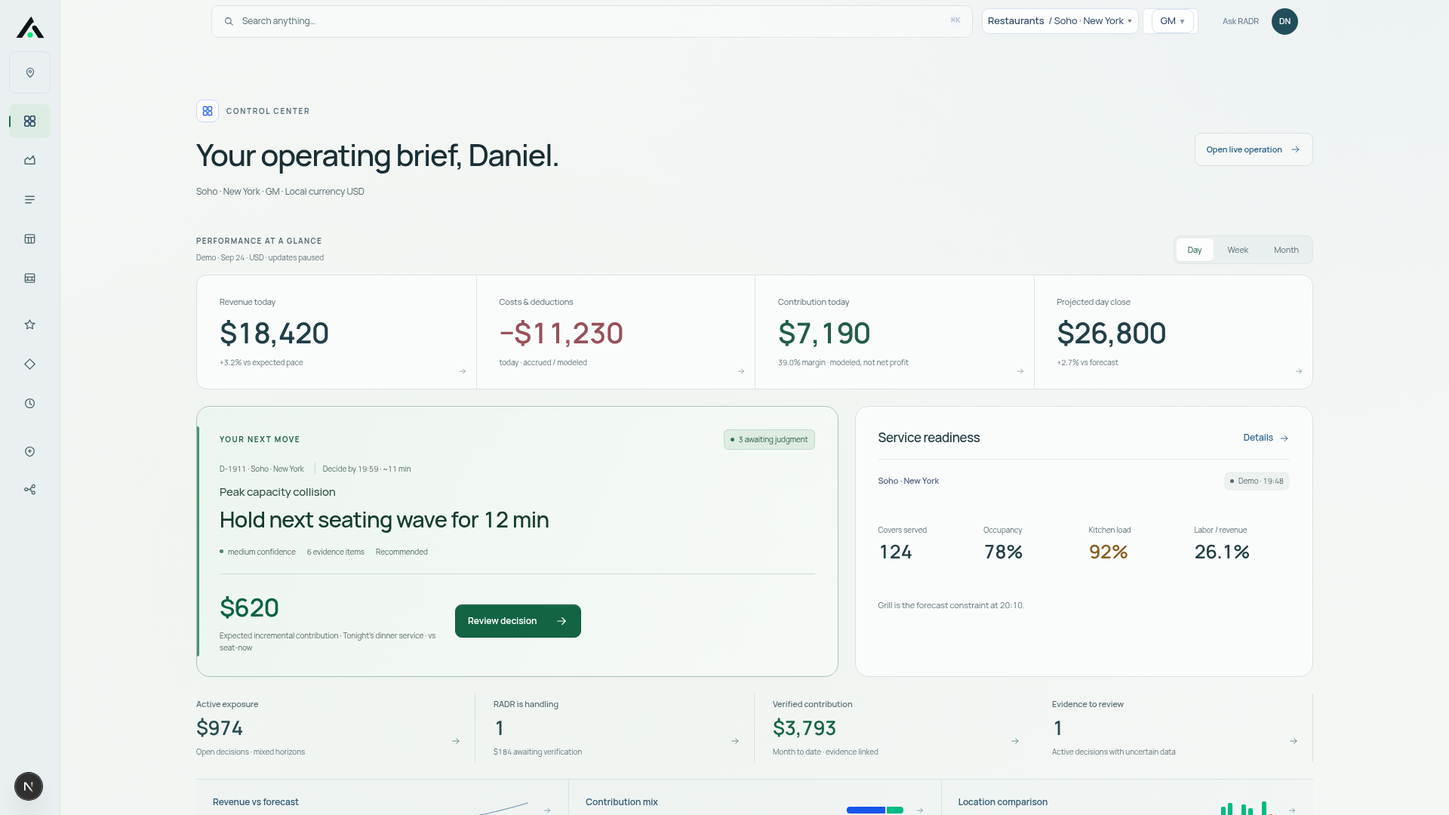
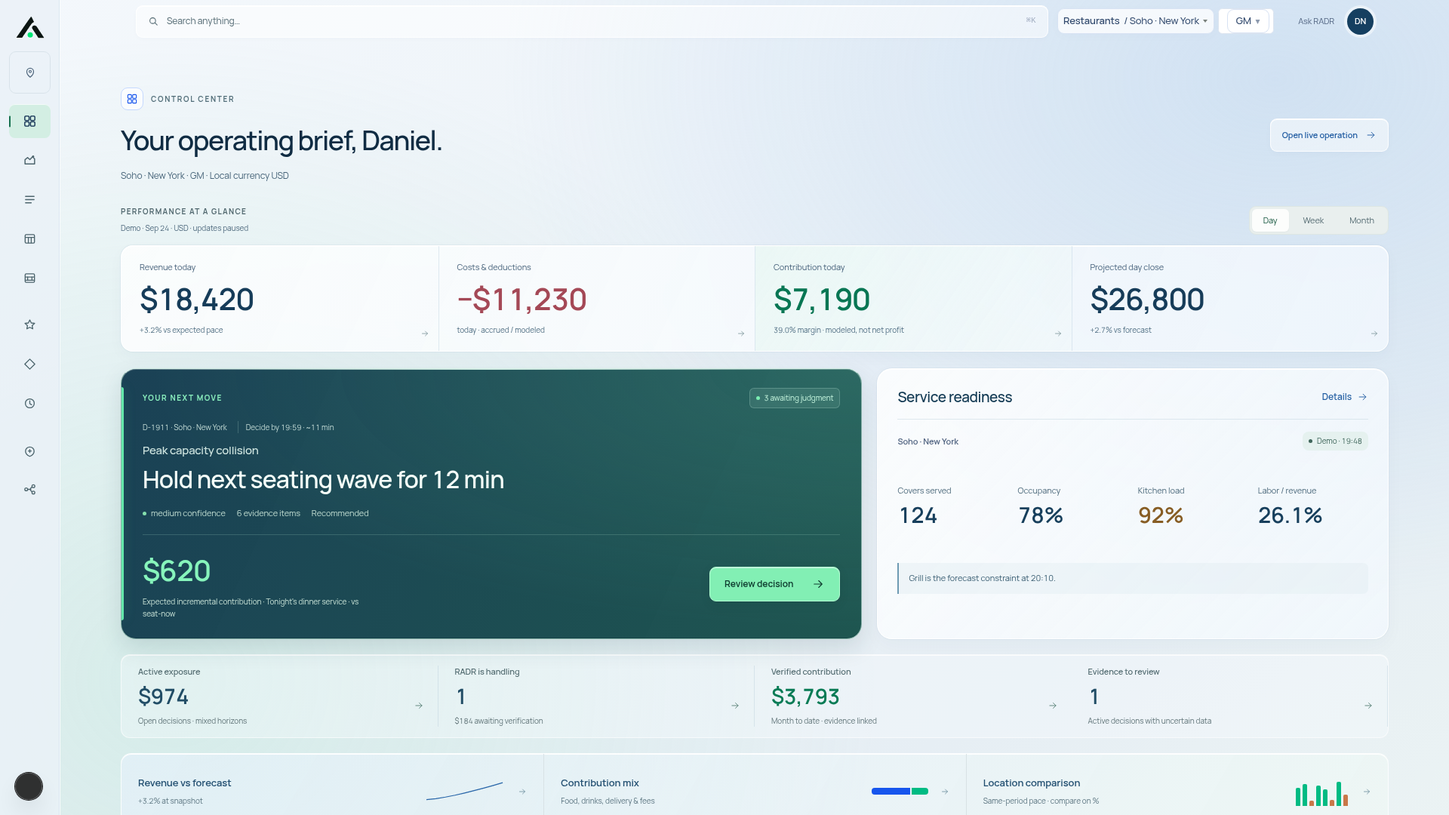
Strengthen Control Center glass, light and Decision emphasis

diff --git a/app/radr-material-system.css b/app/radr-material-system.css
@@ -169,3 +169,103 @@
 .rp-root.rp-shell-v2.rp-premium[data-theme=daylight][data-page=control-center] .ep-graph>svg[viewBox="0 0 270 75"] path:last-child {stroke:var(--material-blue);stroke-width:2;}
 .rp-root.rp-shell-v2.rp-premium[data-theme=daylight][data-page=control-center] .ep-graph>svg[viewBox="0 0 270 75"] path:first-child {stroke:#9baeb7;stroke-width:1;}
 @media(min-width:1900px) {.rp-root.rp-shell-v2.rp-premium[data-theme=daylight][data-page=control-center] .rp-goh {max-width:1480px!important;width:calc(100% - 88px)!important;margin-inline:auto!important;}}
+
+/* Revision 2: visible material, stronger focus and a fuller operating surface. */
+.rp-root.rp-shell-v2.rp-premium[data-theme=daylight][data-page=control-center] {
+ --material-canvas:#eaf1f5;--material-working:#f7fbfe;--material-working-alpha:rgba(249,252,255,.74);
+ --material-ink:#102b43;--material-secondary:#456079;--material-quiet:#506b7f;
+ --material-green:#087753;--material-blue:#225da2;--material-border:#c7d8e4;
+ --app-nav:#eaf1f7;--glass-fill:rgba(249,252,255,.74);--glass-edge:#ffffffd9;
+ background-color:#eaf1f5!important;
+ background-image:radial-gradient(ellipse 1250px 850px at 88% 7%,#a8c9ec63,transparent 82%),radial-gradient(ellipse 1100px 1000px at 12% 60%,#8fd8bb3d,transparent 85%),linear-gradient(145deg,#f4f8fc,#e6eef4 65%,#eef6f3)!important;
+}
+.rp-root.rp-shell-v2.rp-premium[data-theme=daylight][data-page=control-center] .rp-content-v2 {padding:26px 52px 40px!important;}
+.rp-root.rp-shell-v2.rp-premium[data-theme=daylight][data-page=control-center] .cc-executive {max-width:1360px;gap:18px;}
+.rp-root.rp-shell-v2.rp-premium[data-theme=daylight][data-page=control-center] .cc-executive>.rs-heading {padding-bottom:12px;}
+.rp-root.rp-shell-v2.rp-premium[data-theme=daylight][data-page=control-center] .cc-executive .rs-heading h1 {font-size:36px;letter-spacing:-1.45px;color:#102c43;margin:12px 0 10px;}
+.rp-root.rp-shell-v2.rp-premium[data-theme=daylight][data-page=control-center] .cc-executive .rs-heading .rs-description {color:#48657a;}
+.rp-root.rp-shell-v2.rp-premium[data-theme=daylight][data-page=control-center] .rs-navigation {background:#eaf1f7db!important;border-right:1px solid #ffffffb3;box-shadow:inset -1px 0 0 #c4d6e66b;}
+.rp-root.rp-shell-v2.rp-premium[data-theme=daylight][data-page=control-center] .rs-nav-items>a[data-active=true] {background:#d3eee3;color:#075c42;box-shadow:inset 0 1px 0 #ffffffb3;}
+.rp-root.rp-shell-v2.rp-premium[data-theme=daylight][data-page=control-center] .rs-brand {filter:drop-shadow(0 1px 0 #fff);}
+.rp-root.rp-shell-v2.rp-premium[data-theme=daylight][data-page=control-center] .rp-goh-search {background:#ffffff80!important;border-color:#ffffffd9!important;box-shadow:inset 0 1px 0 #fff,0 2px 6px #15395c05!important;}
+.rp-root.rp-shell-v2.rp-premium[data-theme=daylight][data-page=control-center] .rp-goh-avatar {background:#153f60!important;box-shadow:0 0 0 4px #ffffff80!important;}
+.rp-root.rp-shell-v2.rp-premium[data-theme=daylight][data-page=control-center] .cc-executive .rs-heading .rs-text-link {background:#ffffff7d;border-color:#ffffffdc;box-shadow:inset 0 1px 0 #fff,0 3px 10px #15395c06;}
+.rp-root.rp-shell-v2.rp-premium[data-theme=daylight][data-page=control-center] .ep-metrics {border-color:#ffffffe8;border-radius:16px;background:linear-gradient(115deg,#ffffffc9,#f5faffb8);box-shadow:inset 0 1px 0 #fff,0 7px 20px #21496b08,0 0 0 1px #a9c2d329;}
+.rp-root.rp-shell-v2.rp-premium[data-theme=daylight][data-page=control-center] .ep-metrics>button {padding:20px 24px;min-height:123px;}
+.rp-root.rp-shell-v2.rp-premium[data-theme=daylight][data-page=control-center] .ep-metrics>button+button {border-color:#bfd2df73;}
+.rp-root.rp-shell-v2.rp-premium[data-theme=daylight][data-page=control-center] .ep-metrics>button>strong {font-size:36px;font-weight:550;color:#163c59;letter-spacing:-1.3px;}
+.rp-root.rp-shell-v2.rp-premium[data-theme=daylight][data-page=control-center] .ep-metrics>.ep-contribution {background:linear-gradient(125deg,#e0f5ed7d,#eff8f84d);}
+.rp-root.rp-shell-v2.rp-premium[data-theme=daylight][data-page=control-center] .ep-metrics>.ep-contribution>strong {color:#087653;}
+.rp-root.rp-shell-v2.rp-premium[data-theme=daylight][data-page=control-center] .ep-metrics>.ep-cost>strong {color:#a44856;}
+.rp-root.rp-shell-v2.rp-premium[data-theme=daylight][data-page=control-center] .ep-metrics>button>small {color:#506e83;}
+.rp-root.rp-shell-v2.rp-premium[data-theme=daylight][data-page=control-center] .cc-priority-grid {grid-template-columns:minmax(0,1.45fr) minmax(0,1fr);gap:20px;}
+.rp-root.rp-shell-v2.rp-premium[data-theme=daylight][data-page=control-center] .cc-executive .cc-priority {
+ background:#123f48;
+ background:radial-gradient(ellipse at 100% 0,#5dbaa336,transparent 68%),linear-gradient(115deg,#143b50f7,#164f49f5);
+ border:1px solid #a3cdbec9;border-top-color:#d3eee4;border-radius:20px;
+ box-shadow:inset 0 1px 0 #ffffff40,inset 0 -1px 0 #0c2e3859,0 12px 30px #143e4921;
+ padding:25px 28px;color:#effbf5;
+}
+.rp-root.rp-shell-v2.rp-premium[data-theme=daylight][data-page=control-center] .cc-priority:before {top:24px;bottom:24px;width:3px;background:#64e7aa;box-shadow:0 0 16px #50dba040;}
+.rp-root.rp-shell-v2.rp-premium[data-theme=daylight][data-page=control-center] .cc-priority:after {content:"";pointer-events:none;position:absolute;left:0;right:0;top:0;height:1px;background:linear-gradient(90deg,transparent,#e8fff3d9,transparent);}
+.rp-root.rp-shell-v2.rp-premium[data-theme=daylight][data-page=control-center] .cc-priority .cc-section-label {color:#8aefbe;letter-spacing:1.5px;}
+.rp-root.rp-shell-v2.rp-premium[data-theme=daylight][data-page=control-center] .cc-priority .rs-status-pill {background:#d5ffed18;border-color:#d1fce938;color:#c5f5de;}
+.rp-root.rp-shell-v2.rp-premium[data-theme=daylight][data-page=control-center] .cc-priority .rs-status-pill>i {background:#7befb2;}
+.rp-root.rp-shell-v2.rp-premium[data-theme=daylight][data-page=control-center] .cc-executive .cc-priority-meta {color:#c0d9d4;}
+.rp-root.rp-shell-v2.rp-premium[data-theme=daylight][data-page=control-center] .cc-executive .cc-priority-meta>span+span {border-color:#9bc5ba47;}
+.rp-root.rp-shell-v2.rp-premium[data-theme=daylight][data-page=control-center] .cc-executive .cc-priority h2 {color:#d0e6e1;font-size:15px;}
+.rp-root.rp-shell-v2.rp-premium[data-theme=daylight][data-page=control-center] .cc-executive .cc-priority-recommendation {color:#f5fff9;font-size:28px;letter-spacing:-.8px;max-width:630px;}
+.rp-root.rp-shell-v2.rp-premium[data-theme=daylight][data-page=control-center] .cc-decision-assurance {color:#c2dfd3;font-size:11px;}
+.rp-root.rp-shell-v2.rp-premium[data-theme=daylight][data-page=control-center] .cc-decision-assurance i {background:#85dfae;}
+.rp-root.rp-shell-v2.rp-premium[data-theme=daylight][data-page=control-center] .cc-executive .cc-priority footer {border-color:#a3d5c638;margin-top:19px;padding-top:18px;justify-content:space-between;}
+.rp-root.rp-shell-v2.rp-premium[data-theme=daylight][data-page=control-center] .cc-compact-impact strong {color:#87f5bc;font-size:38px;letter-spacing:-1.1px;}
+.rp-root.rp-shell-v2.rp-premium[data-theme=daylight][data-page=control-center] .cc-compact-impact small {color:#c7e2d6;font-size:10px;}
+.rp-root.rp-shell-v2.rp-premium[data-theme=daylight][data-page=control-center] .cc-executive .cc-primary-action {background:#82efb4;border-color:#b3ffd2;color:#103e31;font-weight:650;padding:13px 19px;box-shadow:inset 0 1px 0 #e8fff8a8,0 4px 12px #032e2926;}
+.rp-root.rp-shell-v2.rp-premium[data-theme=daylight][data-page=control-center] .cc-executive .cc-primary-action:hover {background:#a6facb;box-shadow:inset 0 1px 0 #fff;}
+.rp-root.rp-shell-v2.rp-premium[data-theme=daylight][data-page=control-center] .cc-executive .cc-readiness {background:linear-gradient(135deg,#ffffffd1,#f4faffae);border:1px solid #ffffffe8;border-radius:20px;box-shadow:inset 0 1px 0 #fff,0 8px 24px #25486308,0 0 0 1px #a9c2d329;padding:25px 26px;}
+.rp-root.rp-shell-v2.rp-premium[data-theme=daylight][data-page=control-center] .cc-readiness>header {border-color:#bcd0dc73;}
+.rp-root.rp-shell-v2.rp-premium[data-theme=daylight][data-page=control-center] .cc-readiness>header h2 {font-size:19px;color:#153c55;}
+.rp-root.rp-shell-v2.rp-premium[data-theme=daylight][data-page=control-center] .cc-readiness-facts strong {color:#173f5c;font-size:29px;}
+.rp-root.rp-shell-v2.rp-premium[data-theme=daylight][data-page=control-center] .cc-readiness-facts span {font-size:11px;color:#4b687a;}
+.rp-root.rp-shell-v2.rp-premium[data-theme=daylight][data-page=control-center] .cc-readiness .rs-status-pill {background:#e5f1ef;color:#3f665b;}
+.rp-root.rp-shell-v2.rp-premium[data-theme=daylight][data-page=control-center] .cc-compact-readiness {background:#dfebf16b;border-left:2px solid #6e9bb3;padding:11px 13px;color:#395d72;border-radius:0 7px 7px 0;}
+.rp-root.rp-shell-v2.rp-premium[data-theme=daylight][data-page=control-center] .cc-executive .cc-money-strip {margin:20px 0;background:#f8fcff57;border:1px solid #ffffff9e;border-radius:12px;padding:14px 0;box-shadow:inset 0 1px 0 #ffffffc9;}
+.rp-root.rp-shell-v2.rp-premium[data-theme=daylight][data-page=control-center] .cc-executive .cc-money-strip>a {padding:0 22px;border-color:#bfd2dd7a;}
+.rp-root.rp-shell-v2.rp-premium[data-theme=daylight][data-page=control-center] .cc-executive .cc-money-strip>a:first-child {padding-left:22px;}
+.rp-root.rp-shell-v2.rp-premium[data-theme=daylight][data-page=control-center] .cc-executive .cc-money-strip>a>strong {font-size:28px;color:#214d66;}
+.rp-root.rp-shell-v2.rp-premium[data-theme=daylight][data-page=control-center] .cc-executive .cc-money-strip>a.cc-verified>strong {color:#087b55;}
+.rp-root.rp-shell-v2.rp-premium[data-theme=daylight][data-page=control-center] .ep-graphs {border:1px solid #ffffffc9;border-radius:14px;overflow:hidden;background:linear-gradient(120deg,#e7f1fc99,#eff9f5a3);box-shadow:inset 0 1px 0 #fff;}
+.rp-root.rp-shell-v2.rp-premium[data-theme=daylight][data-page=control-center] .ep-graphs .ep-graph {min-height:100px;padding:19px 22px;}
+.rp-root.rp-shell-v2.rp-premium[data-theme=daylight][data-page=control-center] .ep-graph strong {color:#214e70;font-size:13px;}
+.rp-root.rp-shell-v2.rp-premium[data-theme=daylight][data-page=control-center] .ep-graph>svg[viewBox="0 0 270 75"] {width:105px;height:50px;}
+.rp-root.rp-shell-v2.rp-premium[data-theme=daylight][data-page=control-center] .ep-graph>svg[viewBox="0 0 270 75"] path:last-child {stroke:#2866aa;stroke-width:3;}
+.rp-root.rp-shell-v2.rp-premium[data-theme=daylight][data-page=control-center] .cc-compact-areas {border-top:1px solid #bed0da66;padding-top:4px;}
+@supports(backdrop-filter:blur(8px)) {
+ .rp-root.rp-shell-v2.rp-premium[data-theme=daylight][data-page=control-center] .ep-metrics,.rp-root.rp-shell-v2.rp-premium[data-theme=daylight][data-page=control-center] .cc-executive .cc-readiness {backdrop-filter:blur(8px);-webkit-backdrop-filter:blur(8px);}
+}
+@media(min-width:1900px) {
+ .rp-root.rp-shell-v2.rp-premium[data-theme=daylight][data-page=control-center] .cc-executive {max-width:1680px;}
+ .rp-root.rp-shell-v2.rp-premium[data-theme=daylight][data-page=control-center] .rp-goh {max-width:1680px!important;}
+ .rp-root.rp-shell-v2.rp-premium[data-theme=daylight][data-page=control-center] .cc-executive .cc-priority-recommendation {font-size:32px;}
+ .rp-root.rp-shell-v2.rp-premium[data-theme=daylight][data-page=control-center] .ep-metrics>button>strong {font-size:40px;}
+}
+@media(max-width:1100px) {.rp-root.rp-shell-v2.rp-premium[data-theme=daylight][data-page=control-center] .cc-priority-grid {grid-template-columns:1fr;}.rp-root.rp-shell-v2.rp-premium[data-theme=daylight][data-page=control-center] .rp-content-v2 {padding-inline:28px!important;}}
+@media(max-width:700px) {
+ .rp-root.rp-shell-v2.rp-premium[data-theme=daylight][data-page=control-center] .rp-content-v2 {padding:22px 16px 32px!important;}
+ .rp-root.rp-shell-v2.rp-premium[data-theme=daylight][data-page=control-center] .cc-executive .rs-heading h1 {font-size:28px;}
+ .rp-root.rp-shell-v2.rp-premium[data-theme=daylight][data-page=control-center] .ep-metrics>button {padding:17px;min-height:118px;}
+ .rp-root.rp-shell-v2.rp-premium[data-theme=daylight][data-page=control-center] .ep-metrics>button>strong {font-size:29px;}
+ .rp-root.rp-shell-v2.rp-premium[data-theme=daylight][data-page=control-center] .cc-executive .cc-priority,.rp-root.rp-shell-v2.rp-premium[data-theme=daylight][data-page=control-center] .cc-executive .cc-readiness {padding:22px;}
+ .rp-root.rp-shell-v2.rp-premium[data-theme=daylight][data-page=control-center] .cc-executive .cc-priority-recommendation {font-size:25px;}
+ .rp-root.rp-shell-v2.rp-premium[data-theme=daylight][data-page=control-center] .cc-compact-impact strong {font-size:34px;}
+ .rp-root.rp-shell-v2.rp-premium[data-theme=daylight][data-page=control-center] .cc-executive .cc-money-strip>a {padding:12px;}
+ .rp-root.rp-shell-v2.rp-premium[data-theme=daylight][data-page=control-center] .cc-executive .cc-money-strip>a:first-child {padding-left:12px;}
+ .rp-root.rp-shell-v2.rp-premium[data-theme=daylight][data-page=control-center] .ep-graphs .ep-graph {min-height:85px;}
+}
+@media(prefers-reduced-transparency:reduce) {
+ .rp-root.rp-shell-v2.rp-premium[data-theme=daylight][data-page=control-center] .ep-metrics,.rp-root.rp-shell-v2.rp-premium[data-theme=daylight][data-page=control-center] .cc-executive .cc-readiness {background:#f7fbfe;backdrop-filter:none;-webkit-backdrop-filter:none;}
+ .rp-root.rp-shell-v2.rp-premium[data-theme=daylight][data-page=control-center] .cc-executive .cc-priority {background:#16434b;}
+}
+
+.rp-root.rp-shell-v2.rp-premium[data-theme=daylight][data-page=control-center] .cc-priority .cc-priority-empty .rs-text-link {color:#c3f4df;}
+@media(prefers-reduced-transparency:reduce) {.rp-root.rp-shell-v2.rp-premium[data-theme=daylight][data-page=control-center] {background-image:none!important;}}

diff --git a/tests/e2e/control-center-material.spec.ts b/tests/e2e/control-center-material.spec.ts
@@ -7,7 +7,7 @@ test("material pilot retains canonical Decision and passes contrast checks",asyn
 });
 
 test("4K composition centres and remains native vector UI",async({page})=>{
- await page.setViewportSize({width:3840,height:2160});await page.goto("/app?stay=1");const brief=await page.getByTestId("compact-control-center").boundingBox();expect(brief!.x+brief!.width/2).toBeCloseTo((3840+80)/2,0);expect(brief!.width).toBeLessThanOrEqual(1480);expect(await page.locator(".ep-graphs svg").count()).toBeGreaterThan(0);await expect(page.getByTestId("compact-control-center").locator("canvas")).toHaveCount(0);await expect(page.locator('.rs-brand img')).toHaveAttribute("src",/master-v4\.svg/);
+ await page.setViewportSize({width:3840,height:2160});await page.goto("/app?stay=1");const brief=await page.getByTestId("compact-control-center").boundingBox();expect(brief!.x+brief!.width/2).toBeCloseTo((3840+80)/2,0);expect(brief!.width).toBeLessThanOrEqual(1680);expect(await page.locator(".ep-graphs svg").count()).toBeGreaterThan(0);await expect(page.getByTestId("compact-control-center").locator("canvas")).toHaveCount(0);await expect(page.locator('.rs-brand img')).toHaveAttribute("src",/master-v4\.svg/);
 });
 
 test("material scope ends when leaving Control Center",async({page})=>{

diff --git a/docs/RADR_VISUAL_SYSTEM_AUDIT.md b/docs/RADR_VISUAL_SYSTEM_AUDIT.md
@@ -1,65 +1,55 @@
-# Control Center visual system audit
+# Control Center glass revision 2
 
-2 November 2026. Scope: Control Center and the shell that renders it. Status: frozen for user visual approval before propagation.
+2 November 2026. Scope: Control Center and its shell. Status: review candidate, awaiting visual approval before propagation.
 
-[Before / after comparison](visual-qa/control-center-comparison.png)
+The user rejected the first pilot as too empty and underwhelming. This revision responds with visible glass, stronger blue-green contrast, a fuller composition and a more decisive focal surface. It preserves the product and its underlying data.
 
-## Scope and authority
+[Rejected pilot / revised glass comparison](visual-qa/control-center-comparison.png)
 
-Applied the user-supplied **RADR APP — PREMIUM VISUAL SYSTEM PASS**. Read the approved `radr_control_center_dashboard.png` mockup as a light application reference, excluding the device bezel and exterior background. Product architecture, navigation routes, Decision logic, financial models, source records and product thesis remain unchanged.
+## What changed
 
-Every new material selector is scoped to the Control Center root. Other pages continue using the existing visual system; no Live, Decisions, Operations, BOH, Intelligence, Value, Memory, Health or Connections component was edited. The new design contract is [RADR_APP_DESIGN_SYSTEM.md](RADR_APP_DESIGN_SYSTEM.md).
-
-## Visual diff
-
-| Aspect | Before | Material pilot |
+| Aspect | Rejected pilot | Glass revision 2 |
 | --- | --- | --- |
-| Canvas | Flat ivory underneath conventional cards | Continuous ivory with very low-opacity, large blue/mint light fields; no visible blobs or animated wallpaper |
-| Operating context | Four separately rounded metric cards | One divided Working Glass surface using the same four metrics and drill-downs |
-| Primary Decision | Dark blue card with bright green value | Near-opaque light Decision Glass, green-influenced edge, stronger recommendation typography and restrained forest action |
-| Decision hierarchy | Record title led the composition | Recommendation is the strongest text; record title, actual confidence, evidence count and lifecycle stay secondary |
-| Proof summary | Four additional card-like blocks, including a blue verified block | Unboxed typography and separators on the canvas; green identifies verified contribution |
-| Analysis entry points | Three independent bordered cards | One quiet analytical strip with existing native SVG chart marks and original drill-downs |
-| Typography | Similar emphasis across cards | Editorial heading, instrumentation-style numbers, quiet labels and deliberate recommendation hierarchy |
-| Borders / depth | Conventional borders, inherited layered glass filters | Two defined surface materials, subtle borders/inset highlights; no backdrop-filter on overview surfaces |
-| Navigation | Pale rail with larger active field | Same architecture and behaviors, restrained mint field, narrow green marker and normalized outline strokes |
-| Top bar | More visible blue-tinted toolbar | Transparent bar, faint command surface and quieter profile accent |
-| Wide rendering | Existing main-shell width cap left content aligned to one side | Scoped width correction centres the workspace and top bar at 4K, capped at a readable 1480px |
-| Motion | Inherited mixed surface behavior | 180ms interaction tint and one 200ms/3px Decision arrival; reduced-motion removes both |
+| Canvas | Almost flat gray-ivory | Blue-white light with broad analytical-blue and mint illumination |
+| Working surfaces | Near-opaque, almost flat | Translucent blue-white glass, luminous upper borders, fine support edges and selective 8px blur |
+| Decision | Pale green and low contrast | Deep teal/forest focus glass, a fine mint edge, bright mint impact and a high-contrast action |
+| Composition | 1200px desktop reading width and excess surrounding space | 1360px desktop / 1680px wide-screen composition with tighter outer padding |
+| Financial context | Restrained numbers on an almost-white divided surface | Larger navy/green instrumentation on one visible glass surface |
+| Proof | Unboxed numbers that felt disconnected | One shallow translucent proof field, retaining four existing facts and internal separators |
+| Readiness | White supporting panel with little presence | Blue-white glass, clearer type, stronger numbers and an integrated constraint field |
+| Analytical entry points | Thin, flat strip | One lightly tinted glass strip with larger existing SVG marks |
+| Shell | Nearly invisible | Frosted pale-blue rail, white-facing command surface and a restrained profile ring |
 
-The primary Decision remains fully visible at 1512×982. Supporting analysis and the longer operating queue stay below or behind their existing drill-downs. No charts, product modules or integration capabilities were added. No large photographic or illustrative background is used.
+Only the operating-summary and readiness surfaces use backdrop blur. The Decision is near-opaque, and other surfaces use static tint/edge treatment. Blur support is optional. Reduced transparency removes atmospheric light and blur, and uses solid surfaces. Reduced motion still disables transitions and the brief entrance treatment. No continuous animation, new chart, dependency or client-side data request was introduced.
 
-## Data integrity
+## Scope and integrity
 
-D-1911 remains `dec_peak_berlin`, Peak capacity collision, Soho · New York, USD 620 expected incremental contribution for tonight versus seat-now. Its recommendation remains “Hold next seating wave for 12 min.” Confidence is the record's MEDIUM band, not the brief's illustrative 82%. Six evidence items and the Recommended lifecycle label derive directly from that record. No amount, forecast, status, source quality or verification state changed.
+All material selectors remain restricted to the Control Center root. No other product page was restyled. The prior pilot was rejected; this version is not treated as approved for propagation.
 
-Restaurant financial summary still shows revenue $18,420, deductions $11,230, contribution $7,190 and projected day close $26,800. Day/week/month, revenue timeline, contribution attribution, location comparisons, approval links and hotel department drill-downs retain their original behavior and data. Expected value is not presented as verified value.
+D-1911 remains `dec_peak_berlin`, Peak capacity collision, Soho · New York, $620 expected incremental contribution, MEDIUM confidence, six evidence items, the existing Recommended status and “Hold next seating wave for 12 min” action. No invented confidence percentage, changed Decision state or changed financial logic.
+
+Restaurant summary remains $18,420 revenue, $11,230 deductions, $7,190 contribution and $26,800 projected close. Revenue, contribution, location, day/week/month and hotel drill-downs retain their behavior. Approved SVG logo artwork is unchanged.
 
 ## Captures
 
-All are Chromium screenshots of the real rendered product, with native text and SVG UI rather than screenshot-based surfaces.
-
-| Capture | Dimensions / purpose |
+| Capture | Resolution |
 | --- | --- |
-| [Before](visual-qa/control-center-before.png) | 1512×982 |
-| [After](visual-qa/control-center-after.png) | 1512×982 |
+| [Before: rejected pilot](visual-qa/control-center-before.png) | 1512×982 |
+| [Revised glass](visual-qa/control-center-after.png) | 1512×982 |
 | [Full HD](visual-qa/control-center-after-1920x1080.png) | 1920×1080 |
 | [QHD](visual-qa/control-center-after-2560x1440.png) | 2560×1440 |
-| [4K](visual-qa/control-center-after-3840x2160.png) | 3840×2160, centred composition and vector rendering |
-| [200% equivalent reflow](visual-qa/control-center-after-200-percent-reflow.png) | 756×491 CSS viewport at DPR 2, full document; equivalent layout density for a 1512×982 display at 200%, not a claim that browser chrome zoom was automated |
+| [4K](visual-qa/control-center-after-3840x2160.png) | 3840×2160 |
+| [Double-density reflow](visual-qa/control-center-after-200-percent-reflow.png) | 756×491 CSS viewport, DPR 2, full document |
 | [Phone](visual-qa/control-center-after-mobile.png) | 390×900 CSS viewport, full document |
 
-Full-document phone captures place the fixed navigation at its initial viewport position. In use, it stays at the viewport bottom while content scrolls. No horizontal overflow was found at phone or double-density reflow widths.
+The reflow capture represents the layout density of a 1512×982 display at 200%; browser chrome zoom is not claimed to have been automated. Full-document phone captures place fixed navigation at its initial viewport position; in use it remains at the viewport bottom as content scrolls. Native text and SVG charts/icons remain resolution independent.
 
 ## Validation
 
-- TypeScript and targeted ESLint checks pass. Diff whitespace check passes.
-- Nine Playwright tests pass: executive brief and finance dialogs, hotel context, canonical Decision fidelity, WCAG checks, 4K centring/native vector UI, route styling isolation, reduced motion and responsive reflow, financial reconciliation, revenue/product/channel drill-downs and hotel contribution attribution.
-- Axe WCAG 2 A/AA checks report zero violations in the main Control Center and in the full Control Center root including its shell. This is automated coverage, not a claim of exhaustive accessibility certification.
-- Existing keyboard focus, dialog Escape dismissal, scroll locking and trigger-focus restoration remain verified by the workflow suite. Focus rings retain strong analytical-blue outlines.
-- The approved SVG logo is unchanged. Charts are SVG and native text; no canvas or raster UI was introduced. Normal and high-resolution captures retain crisp geometry.
-- The overview uses no backdrop-filter, continuous animation, new dependency, data request or new client state. Reduced transparency has an opaque fallback. Actual frame rate still depends on device and browser; this audit does not claim a universal measured 60fps.
+Nine Playwright checks cover canonical values, Control Center/finance interactions, hotel financial context, 4K centring, styling isolation, reduced motion, responsive reflow and financial reconciliation. Full Control Center shell Axe WCAG 2 A/AA scan: no violations. No horizontal overflow at phone or double-density reflow widths. TypeScript and whitespace validation run against this revision. This is automated coverage, not exhaustive accessibility certification or a universal device frame-rate claim.
 
-## Approval gate
+The three-material contract, colors, spacing, borders, motion, status semantics and fallback behavior are recorded in [RADR_APP_DESIGN_SYSTEM.md](RADR_APP_DESIGN_SYSTEM.md).
 
-Stop here. Review the comparison and live Control Center pilot with the user. Do not propagate materials or compose other product pages until the user explicitly approves this direction, as required by the supplied brief.
+## Gate
+
+Stop at Control Center. Review this revised candidate with the user before applying it to other product pages.

diff --git a/docs/RADR_APP_DESIGN_SYSTEM.md b/docs/RADR_APP_DESIGN_SYSTEM.md
@@ -1,14 +1,14 @@
 # RADR application design system
 
-Status: Control Center material pilot, awaiting visual approval. 2 November 2026.
+Status: Control Center glass revision 2, awaiting visual approval. 2 November 2026.
 
-The current user brief supersedes earlier palette experiments. This system is implemented only on Control Center and its shell. Do not propagate it to Live, Decisions, Operations, Back of House, Intelligence, Value, Memory, Data Health or Connections until the user approves the pilot.
+The user rejected the first material pilot as empty and underwhelming. This revision makes the glass materially visible, restores blue-green contrast, and fills more of the desktop workspace. This feedback supersedes the first pilot’s almost-opaque, almost-shadowless treatment. This system is implemented only on Control Center and its shell. Do not propagate it to Live, Decisions, Operations, Back of House, Intelligence, Value, Memory, Data Health or Connections until the user approves the pilot.
 
 ## Product hierarchy
 
 Metrics are context. Decisions are the product. Verified outcomes are proof. Memory retains the learning. Control Center answers “What needs me?” Its primary object is the current scoped Decision, not a performance chart. Record IDs, lifecycle, money, confidence, action links and verification remain canonical data.
 
-The approved backend mockups define a light, spacious, calm direction. Their tablet frame and exterior blue background are presentation, not application UI. Logos remain approved immutable SVG assets through `FrozenRadrLogo`.
+The approved backend mockups define a light, spacious, calm direction with more tangible material and stronger focal contrast. Their tablet frame and exterior blue background are presentation, not application UI. Logos remain approved immutable SVG assets through `FrozenRadrLogo`.
 
 ## Implementation and scope
 
@@ -20,44 +20,44 @@ After approval, shared material tokens and primitives can replace compatibility 
 
 | Level | Material | Implementation | Use |
 | --- | --- | --- | --- |
-| 0 | Canvas | `--material-canvas: #f5f7f5`; extremely low-opacity blue and mint light fields across 1200–1400px, diffused beyond their origin | Atmospheric environment with neutral ivory underneath |
-| 1 | Working Glass | Solid fallback `#f8fbfa`; normal rendering `rgba(250,252,251,.96)`; border `#d8e1df`; white inset highlight | Operating summary, service/arrival readiness and supporting information |
-| 2 | Decision Glass | Solid fallback `#edf5ef`; near-opaque green-influenced tonal variation; border `#a7c3b4`; 3px restrained edge marker | Current recommendation and its action |
+| 0 | Canvas | `--material-canvas: #eaf1f5`; broad blue and mint illumination over a blue-white base, diffused across 1100–1250px | Atmospheric environment with neutral ivory underneath |
+| 1 | Working Glass | Solid fallback `#f7fbfe`; normal rendering near 74% opacity with white-facing borders and highlights; selective 8px backdrop blur | Operating summary, service/arrival readiness and supporting information |
+| 2 | Decision Glass | Solid fallback `#123f48`; near-opaque deep teal/forest focus surface, light upper edge, mint marker and mint action/value emphasis | Current recommendation and its action |
 
-Glass means material hierarchy. It does not require blur. There are no backdrop-filter layers in the Control Center overview, no glass nested over glass, no animated environmental light, no heavy reflections and no floating drop shadows. The proof strip is plain typography on the canvas, not a fourth material.
+Glass means visible material hierarchy. Only the operating-summary and readiness surfaces use an 8px backdrop blur where supported. Their solid fallbacks preserve separation and legibility. Thin light-facing rims and restrained grounding shadows make the surfaces tangible. The Decision uses a near-opaque focus material rather than blur; the proof strip uses one shallow shared field. There are no animated environmental lights, nested blur stacks or heavy reflections.
 
 ## Color
 
 | Token | Value | Meaning |
 | --- | --- | --- |
-| `--material-ink` | `#192e35` | Headings and primary information |
-| `--material-secondary` | `#52656b` | Supporting information |
-| `--material-quiet` | `#5f7178` | Metadata with readable contrast |
-| `--material-green` | `#086342` | Decision impact and verified contribution |
-| `--material-blue` | `#285e88` | Evidence, analytical links and chart line |
-| Action fill | `#126443` | Primary Decision action; white label |
+| `--material-ink` | `#102b43` | Headings and primary information |
+| `--material-secondary` | `#456079` | Supporting information |
+| `--material-quiet` | `#506b7f` | Metadata with readable contrast |
+| `--material-green` | `#087753` | Decision impact and verified contribution |
+| `--material-blue` | `#225da2` | Evidence, analytical links and chart line |
+| Action fill | `#82efb4` | Primary Decision action; dark forest label |
 | Selected field | `#dcece3` | Active navigation, restrained mint |
-| Navigation material | `#eaf0f1` | Pale blue-gray, no sidebar gradient |
+| Navigation material | `#eaf1f7` | Pale blue-gray, no sidebar gradient |
 | Amber | `#875d24` | Elevated operating pressure or uncertainty |
-| Outflow | `#97515a` | Existing cost/deduction context, distinct from urgent risk |
+| Outflow | `#a44856` | Existing cost/deduction context, distinct from urgent risk |
 
 Urgent red remains reserved for material risk states. Source health, Decision confidence, forecast accuracy, modeled performance and verified value are separate concepts. MEDIUM confidence must never be rendered as an invented percentage.
 
 ## Typography and numbers
 
-Retain Manrope and the existing product font loader. No new fonts, weights downloaded at runtime, serif accents or raster labels. Headline: 36px, weight 550, line-height 1.24, tracking −1.35px; 40px on wide displays and 28px on phones. Recommendation: 25px, weight 550, line-height 1.3; 29px on wide displays. Its record title is quieter at 15px. Primary money is 33px, or 38px on wide displays. Use tabular numerals, quiet labels and explicitly labeled context.
+Retain Manrope and the existing product font loader. No new fonts, weights downloaded at runtime, serif accents or raster labels. Headline: 36px, weight 550, line-height 1.24, tracking −1.35px; 40px on wide displays and 28px on phones. Recommendation: 28px, weight 550, line-height 1.3; 32px on wide displays. Its record title is quieter at 15px. Primary operating money is 36px, or 40px on wide displays; Decision impact is 38px in mint. Use tabular numerals, quiet labels and explicitly labeled context.
 
 Metadata is 10–12px with readable foreground colors. The hero uses the same canonical recommendation, MEDIUM confidence, evidence count, status and horizon as the record, without decorative confidence percentages.
 
 ## Spacing, composition and radii
 
-Use a 4px rhythm with common 8, 12, 16, 22, 26 and 30px intervals. The editorial heading has breathing room before the performance summary. Four existing metrics sit inside one divided working surface. The Decision and readiness surface share a baseline. Proof values and graph drill-downs use separators rather than individual cards.
+Use a 4px rhythm with common 8, 12, 16, 22, 26 and 30px intervals. The editorial heading has breathing room before the performance summary. Four existing metrics sit inside one divided working surface. The Decision and readiness surface share a baseline. Proof values and graph drill-downs share shallow glass fields and internal separators rather than individual cards.
 
-Controls: 8–9px radius. Working surfaces: 14px. Major Decision/readiness surfaces: 18px. No oversized pills. Control Center has a 1200px reading width on desktop, extending to 1480px on wide screens. The main workspace and top bar centre within the space to the right of the rail at 4K; they do not stretch text across the whole monitor.
+Controls: 8–9px radius. Working surfaces: 14px. Major Decision/readiness surfaces: 20px. No oversized pills. Control Center has a 1360px reading width on desktop, extending to 1680px on wide screens. The main workspace and top bar centre within the space to the right of the rail at 4K; they do not stretch text across the whole monitor.
 
 ## Borders and shadows
 
-Working border: 1px cool neutral `#d8e1df`. Decision border: 1px green-influenced `#a7c3b4`. Separators use lower-contrast gray-green. Insets give a slight light-facing edge; the primary Decision has only a 2px, 1.5%-opacity grounding shadow. Hover changes surface contrast, not elevation or scale.
+Working borders are translucent white over a cool blue-gray support edge. Decision borders are green-influenced with a brighter upper rim. Working surfaces use 7–8px low-opacity grounding shadows; the Decision uses a stronger 12px/30px shadow at 13% opacity to establish focus. Insets create a light-facing edge. Hover changes material contrast, not position or scale.
 
 ## Chart language
 
@@ -65,7 +65,7 @@ Existing charts remain native SVG and retain their existing datasets and drill-d
 
 ## Motion and performance
 
-Hover and selection: 180ms. Decision arrival: one 200ms opacity / 3px translation, no bounce or overshoot. No perpetual pulse, animated gradient or page transition. `prefers-reduced-motion: reduce` removes transitions and animation. Reduced transparency removes atmospheric fields and uses opaque working surfaces. The design does not depend on backdrop-filter support. No new JavaScript dependency, network request, rendering canvas or client state is introduced by the visual system.
+Hover and selection: 180ms. Decision arrival: one 200ms opacity / 3px translation, no bounce or overshoot. No perpetual pulse, animated gradient or page transition. `prefers-reduced-motion: reduce` removes transitions and animation. Reduced transparency removes atmospheric fields and uses opaque working surfaces. The design does not depend on backdrop-filter support; reduced transparency disables both selective blur layers and uses solid fills. No new JavaScript dependency, network request, rendering canvas or client state is introduced by the visual system.
 
 ## Navigation and command surface
 
